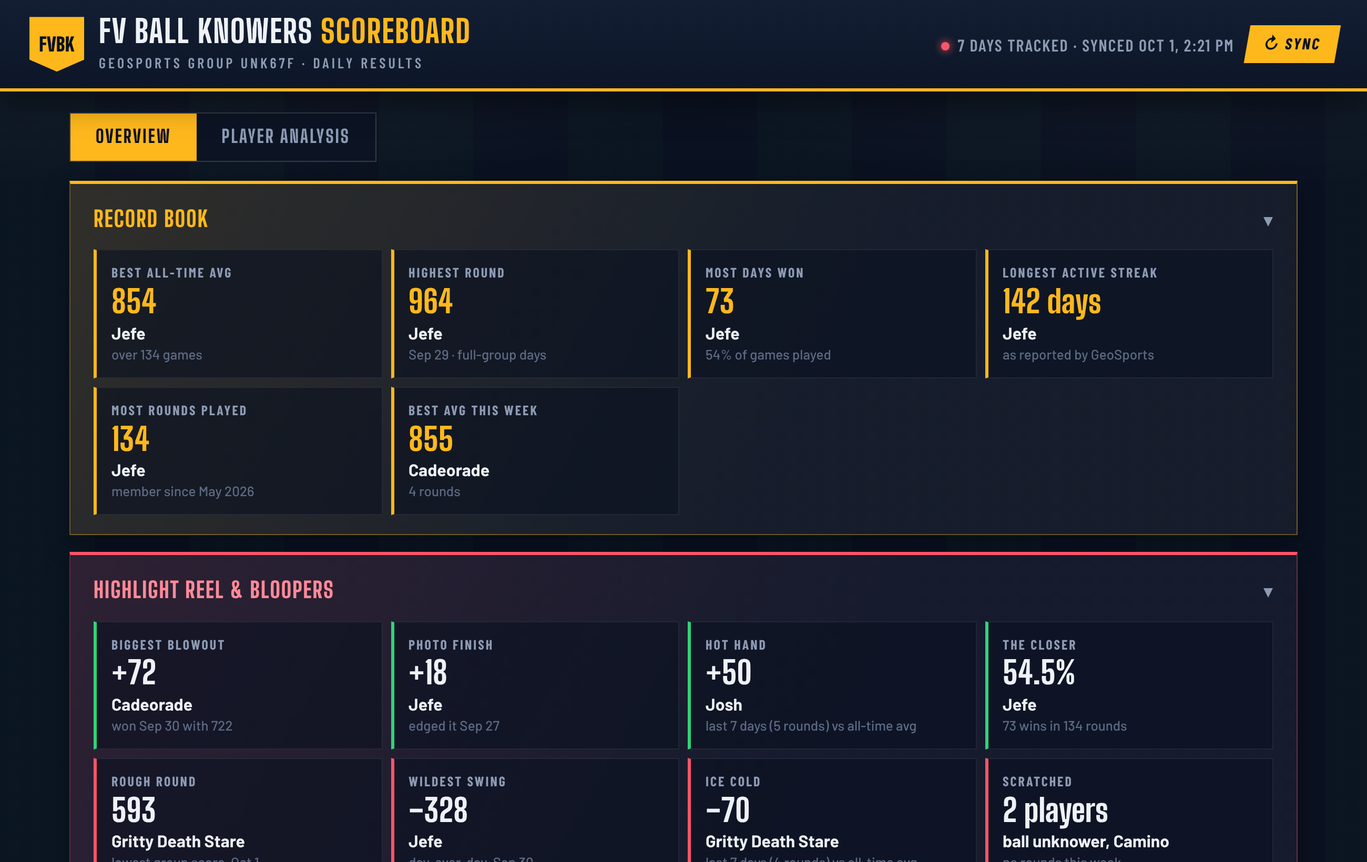
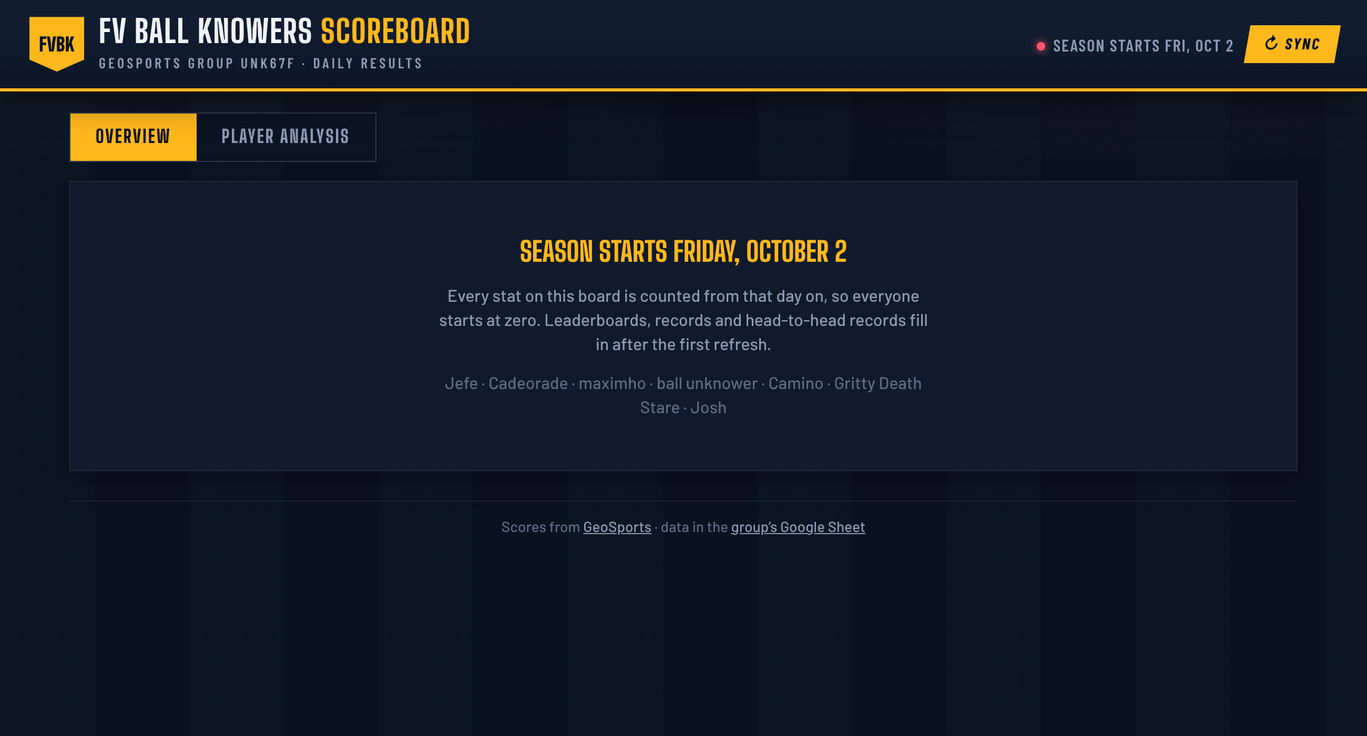
Start the season on Oct 2: compute all stats from tracked days, drop pre-season data

diff --git a/index.html b/index.html
@@ -282,6 +282,7 @@
   function render() {
     document.querySelectorAll('.tab-btn').forEach((b) => { const on = b.dataset.tab === S.tab; b.classList.toggle('active', on); b.setAttribute('aria-selected', on); });
     if (!S.meta || !S.meta.members) return;
+    if (!S.days.length) { renderWaiting(); return; }
     const M = model();
     if (!S.focus || !M.byId[S.focus]) S.focus = M.byId[M.me] ? M.me : M.members[0]?.userId;
     $('title').innerHTML = esc(M.m.group?.name || 'GeoSports') + ' <span class="accent">Scoreboard</span>';
@@ -291,6 +292,14 @@
     Object.values(charts).forEach((c) => c.destroy()); for (const k in charts) delete charts[k];
     $('app').innerHTML = S.tab === 'overview' ? overviewHTML(M) : playerHTML(M);
     if (S.tab === 'overview') overviewCharts(M); else playerCharts(M);
+  }
+
+  function renderWaiting() {
+    const m = S.meta, start = m.start || '2026-10-02';
+    $('meta-line').textContent = 'Season starts ' + fmtDate(start, { weekday: 'short', month: 'short', day: 'numeric' });
+    $('app').innerHTML = `<div class="card empty-state"><h2>Season starts ${esc(fmtDate(start, { weekday: 'long', month: 'long', day: 'numeric' }))}</h2>
+      <p>Every stat on this board is counted from that day on, so everyone starts at zero. Leaderboards, records and head-to-head records fill in after the first refresh.</p>
+      <p style="margin-top:14px" class="dim">${(m.members || []).map((p) => esc(p.name)).join(' · ')}</p></div>`;
   }
 
   // ---------- Overview ----------
@@ -306,14 +315,13 @@
     // bests
     const by = (f) => [...members].filter((p) => f(p) != null).sort((a, b) => f(b) - f(a))[0];
     const bAvg = by((p) => p.alltime?.avg), bWon = by((p) => p.alltime?.won), bStreak = by((p) => p.currentStreak), bGames = by((p) => p.alltime?.games), bWeek = by((p) => p.week?.avg);
-    // Group comparisons only use full-group days, so no one's longer personal history skews them.
     let hi = null; complete.forEach((d) => d.entries.forEach(([id, sc]) => { if (!hi || sc > hi.score) hi = { date: d.date, score: sc, id }; }));
     const bests = [
-      bAvg && ['Best all-time avg', fmt(bAvg.alltime.avg), bAvg.name, `over ${fmt(bAvg.alltime.games)} games`],
-      hi && ['Highest round', fmt(hi.score), byId[hi.id].name, fmtDate(hi.date, { month: 'short', day: 'numeric' }) + ' · full-group days'],
-      bWon && ['Most days won', fmt(bWon.alltime.won), bWon.name, `${fmt(100 * bWon.alltime.won / bWon.alltime.games, 0)}% of games played`],
-      bStreak && ['Longest active streak', fmt(bStreak.currentStreak) + ' days', bStreak.name, 'as reported by GeoSports'],
-      bGames && ['Most rounds played', fmt(bGames.alltime.games), bGames.name, `member since ${fmtDate(bGames.memberSince, { month: 'short', year: 'numeric' })}`],
+      bAvg && ['Best season avg', fmt(bAvg.alltime.avg), bAvg.name, `over ${fmt(bAvg.alltime.games)} rounds`],
+      hi && ['Highest round', fmt(hi.score), byId[hi.id].name, fmtDate(hi.date, { month: 'short', day: 'numeric' })],
+      bWon && ['Most days won', fmt(bWon.alltime.won), bWon.name, `${fmt(100 * bWon.alltime.won / bWon.alltime.games, 0)}% of rounds played`],
+      bStreak && bStreak.currentStreak > 0 && ['Longest active streak', fmt(bStreak.currentStreak) + (bStreak.currentStreak === 1 ? ' day' : ' days'), bStreak.name, 'consecutive days played'],
+      bGames && ['Most rounds played', fmt(bGames.alltime.games), bGames.name, `since ${fmtDate(M.m.start)}`],
       bWeek && ['Best avg this week', fmt(bWeek.week.avg), bWeek.name, `${bWeek.week.games} rounds`],
     ].filter(Boolean);
 
@@ -327,16 +335,16 @@
     members.forEach((p) => { const s = series[p.userId].filter((x) => full.has(x.date)); for (let i = 1; i < s.length; i++) { if (s[i].date !== addDays(s[i - 1].date, 1)) continue; const dlt = s[i].score - s[i - 1].score; if (!swing || Math.abs(dlt) > Math.abs(swing.d)) swing = { id: p.userId, d: dlt, date: s[i].date }; } });
     const formRows = members.map((p) => { const r = M.recent(p.userId, 7); return { p, n: r.length, delta: r.length && p.alltime?.avg != null ? mean(r) - p.alltime.avg : null }; }).filter((x) => x.n >= 3 && x.delta != null);
     const hot = [...formRows].sort((a, b) => b.delta - a.delta)[0], cold = [...formRows].sort((a, b) => a.delta - b.delta)[0];
-    const wr = members.filter((p) => (p.alltime?.games || 0) >= 20).sort((a, b) => b.alltime.won / b.alltime.games - a.alltime.won / a.alltime.games)[0];
+    const wr = members.filter((p) => (p.alltime?.games || 0) >= 5).sort((a, b) => b.alltime.won / b.alltime.games - a.alltime.won / a.alltime.games)[0];
     const mia = members.filter((p) => !(p.week?.games));
     const odd = [
       blow && ['trophy', 'Biggest blowout', '+' + fmt(blow.margin), blow.winners.map(name).join(' & '), `won ${fmtDate(blow.date)} with ${fmt(blow.top)}`],
-      close && ['trophy', 'Photo finish', close.margin === 0 ? 'Tie' : '+' + fmt(close.margin), close.winners.map(name).join(' & '), `edged it ${fmtDate(close.date)}`],
-      hot && hot.delta > 0 && ['trophy', 'Hot hand', sign(hot.delta), esc(hot.p.name), `last 7 days (${hot.n} rounds) vs all-time avg`],
+      close && ['trophy', 'Photo finish', close.margin === 0 ? 'Tie' : '+' + fmt(close.margin), close.winners.map(name).join(' & '), close.margin === 0 ? `tied for the win ${fmtDate(close.date)}` : `edged it ${fmtDate(close.date)}`],
+      hot && hot.delta > 0 && ['trophy', 'Hot hand', sign(hot.delta), esc(hot.p.name), `last 7 days (${hot.n} rounds) vs season avg`],
       wr && ['trophy', 'The closer', fmt(100 * wr.alltime.won / wr.alltime.games, 1) + '%', esc(wr.name), `${wr.alltime.won} wins in ${wr.alltime.games} rounds`],
       low && ['shame', 'Rough round', fmt(low.score), name(low.id), `lowest group score, ${fmtDate(low.date)}`],
       swing && ['shame', 'Wildest swing', sign(swing.d), name(swing.id), `day-over-day, ${fmtDate(swing.date)}`],
-      cold && cold.delta < 0 && ['shame', 'Ice cold', sign(cold.delta), esc(cold.p.name), `last 7 days (${cold.n} rounds) vs all-time avg`],
+      cold && cold.delta < 0 && ['shame', 'Ice cold', sign(cold.delta), esc(cold.p.name), `last 7 days (${cold.n} rounds) vs season avg`],
       mia.length && ['shame', 'Scratched', mia.length + (mia.length === 1 ? ' player' : ' players'), mia.map((p) => esc(p.name)).join(', '), 'no rounds this week'],
     ].filter(Boolean);
 
@@ -355,26 +363,26 @@
       <section class="card collapsible oddities${S.open.odd ? '' : ' collapsed'}" data-col="odd">
         <button type="button" class="card-toggle" aria-expanded="${S.open.odd}">Highlight Reel &amp; Bloopers</button>
         <div class="card-body"><div class="item-grid">${odd.map(([k, l, v, w, s]) => `<div class="item ${k}"><div class="lbl">${l}</div><div class="val">${v}</div><div class="who">${w}</div><div class="s">${esc(s)}</div></div>`).join('')}</div>
-        <p class="sub" style="margin:12px 0 0">Group records only count days with everyone’s scores${firstFull ? ' (since ' + fmtDate(firstFull) + ')' : ''}. Blowouts and photo finishes wait until a day is over. Hot hand and ice cold need 3+ rounds in the last 7 days.</p></div>
+        <p class="sub" style="margin:12px 0 0">Blowouts and photo finishes wait until a day is over. Hot hand and ice cold need 3+ rounds in the last 7 days.</p></div>
       </section>
 
       <h2 class="section-title">Season Totals</h2>
-      <p class="section-sub">Lifetime group totals from GeoSports. Not affected by filters.</p>
+      <p class="section-sub">Totals since the season started on ${esc(fmtDate(M.m.start, { month: 'long', day: 'numeric' }))}. Not affected by filters.</p>
       <div class="metric-grid">
         ${metric('Members', fmt(members.length), `${activeWeek} played this week`)}
-        ${metric('Rounds played', fmt(totalGames), 'all members, all-time')}
+        ${metric('Rounds played', fmt(totalGames), 'all members, this season')}
         ${metric('Group avg', fmt(groupAvg), 'per round, all members')}
         ${metric('Days won', fmt(members.reduce((s, p) => s + (p.alltime?.won || 0), 0)), `${fmt(100 * members.reduce((s, p) => s + (p.alltime?.won || 0), 0) / (totalGames || 1), 1)}% of all rounds`)}
         ${metric("Today's leader", leader ? esc(byId[leader.userId]?.name || '?') : '—', leader ? `${fmt(leader.score)} · ${todayRows.length} of ${members.length} played` : 'no rounds yet today', true, true)}
-        ${metric('Days tracked', fmt(complete.length), firstFull ? `full scores since ${fmtDate(firstFull)}` : 'starts with the first sync')}
+        ${metric('Days tracked', fmt(complete.length), firstFull ? `since ${fmtDate(firstFull)}` : 'starts with the first refresh')}
       </div>
 
       <hr class="section-divider">
 
       <section class="card">
         <div class="filter-label">Leaderboard</div>
-        <p class="sub">Week, month and all-time rank by average score, the same way GeoSports does, so a missed day doesn’t sink you. Click a player for their full breakdown.</p>
-        <div class="chips" style="margin-bottom:12px">${periodChip('today', 'Today')}${periodChip('week', 'This week')}${periodChip('month', 'This month')}${periodChip('alltime', 'All-time')}</div>
+        <p class="sub">Week, month and season rank by average score, the same way GeoSports does, so a missed day doesn’t sink you. Click a player for their full breakdown.</p>
+        <div class="chips" style="margin-bottom:12px">${periodChip('today', 'Today')}${periodChip('week', 'This week')}${periodChip('month', 'This month')}${periodChip('alltime', 'Season')}</div>
         <div class="scroll-table flat">${leaderboardTable(M)}</div>
       </section>
 
@@ -388,20 +396,20 @@
 
       <section class="card">
         <h3>Daily scores</h3>
-        <p class="sub">One line per player. Gaps are days a player skipped.${M.series[M.me]?.length > complete.length ? ' Your own history goes back further than the group’s, so earlier days show only your line.' : ''}</p>
+        <p class="sub">One line per player. Gaps are days a player skipped.</p>
         <div class="chart-wrap" style="height:360px"><canvas id="c-daily" role="img" aria-label="Daily scores by player"></canvas></div>
       </section>
 
       <div class="row2">
         <section class="card">
           <h3>Days won</h3>
-          <p class="sub">All-time daily wins per player.</p>
+          <p class="sub">Daily wins per player this season.</p>
           <div class="chart-wrap" style="height:280px"><canvas id="c-wins" role="img" aria-label="Days won per player"></canvas></div>
         </section>
         <section class="card">
           <h3>Current form</h3>
-          <p class="sub">Last 7 days average minus all-time average. Right of zero is running hot. Rounds played in brackets.</p>
-          <div class="chart-wrap" style="height:280px"><canvas id="c-form" role="img" aria-label="Recent form versus all-time average"></canvas></div>
+          <p class="sub">Last 7 days average minus season average. Right of zero is running hot. Rounds played in brackets.</p>
+          <div class="chart-wrap" style="height:280px"><canvas id="c-form" role="img" aria-label="Recent form versus season average"></canvas></div>
         </section>
       </div>
 
@@ -490,7 +498,7 @@
 
     const form = shown.map((p) => { const r = M.recent(p.userId, 7); return { p, n: r.length, d: r.length && p.alltime?.avg != null ? Math.round(mean(r) - p.alltime.avg) : null }; }).filter((x) => x.d != null).sort((a, b) => b.d - a.d);
     charts.form = new Chart($('c-form'), { type: 'bar', data: { labels: form.map((x) => `${x.p.name} (${x.n})`), datasets: [{ data: form.map((x) => x.d), backgroundColor: form.map((x) => x.d >= 0 ? 'rgba(47,212,122,0.7)' : 'rgba(255,84,104,0.7)'), borderColor: form.map((x) => x.d >= 0 ? '#2fd47a' : '#ff5468'), borderWidth: 1 }] },
-      options: baseOpts({ indexAxis: 'y', plugins: { legend: { display: false }, tooltip: { ...baseOpts().plugins.tooltip, callbacks: { label: (c) => sign(c.raw) + ' pts vs all-time' } } } }) });
+      options: baseOpts({ indexAxis: 'y', plugins: { legend: { display: false }, tooltip: { ...baseOpts().plugins.tooltip, callbacks: { label: (c) => sign(c.raw) + ' pts vs season' } } } }) });
   }
 
   // ---------- Player analysis ----------
@@ -514,13 +522,13 @@
     const isMe = p.userId === M.me, You = isMe ? 'You' : esc(p.name), you = isMe ? 'you' : esc(p.name);
     const notes = [];
     if (pos >= 0) {
-      if (pos === 0 && ranked[1]) notes.push(['good', `#1 all-time`, `Leads ${esc(ranked[1].name)} by ${fmt(at.avg - ranked[1].alltime.avg)} pts on average.`]);
-      else if (pos > 0) notes.push(['info', `#${pos + 1} of ${ranked.length} all-time`, `${fmt(ranked[pos - 1].alltime.avg - at.avg)} pts behind ${esc(ranked[pos - 1].name)} for #${pos}.${ranked[pos + 1] ? ` ${fmt(at.avg - ranked[pos + 1].alltime.avg)} pts clear of ${esc(ranked[pos + 1].name)}.` : ''}`]);
+      if (pos === 0 && ranked[1]) notes.push(['good', `#1 this season`, `Leads ${esc(ranked[1].name)} by ${fmt(at.avg - ranked[1].alltime.avg)} pts on average.`]);
+      else if (pos > 0) notes.push(['info', `#${pos + 1} of ${ranked.length} this season`, `${fmt(ranked[pos - 1].alltime.avg - at.avg)} pts behind ${esc(ranked[pos - 1].name)} for #${pos}.${ranked[pos + 1] ? ` ${fmt(at.avg - ranked[pos + 1].alltime.avg)} pts clear of ${esc(ranked[pos + 1].name)}.` : ''}`]);
     }
-    if (r7.length >= 2) { const d = mean(r7) - at.avg; notes.push([d >= 15 ? 'good' : d <= -15 ? 'bad' : 'info', d >= 15 ? 'Running hot' : d <= -15 ? 'In a slump' : 'Playing to form', `${fmt(mean(r7))} avg over the last 7 days (${r7.length} rounds), ${sign(d)} vs all-time.${r7.length < 3 ? ' Small sample.' : ''}`]); }
+    if (r7.length >= 2) { const d = mean(r7) - at.avg; notes.push([d >= 15 ? 'good' : d <= -15 ? 'bad' : 'info', d >= 15 ? 'Running hot' : d <= -15 ? 'In a slump' : 'Playing to form', `${fmt(mean(r7))} avg over the last 7 days (${r7.length} rounds), ${sign(d)} vs season.${r7.length < 3 ? ' Small sample.' : ''}`]); }
     else notes.push(['bad', 'Barely played lately', `${r7.length} round${r7.length === 1 ? '' : 's'} in the last 7 days.`]);
     if (winRate != null && groupWin != null) notes.push([winRate >= groupWin ? 'good' : 'neutral', 'Closer rate', `Wins ${fmt(winRate, 1)}% of rounds played. Across the group, ${fmt(groupWin, 1)}% of rounds are wins.`]);
-    if (s.length >= 5) notes.push(['info', 'Consistency', `Tracked rounds swing about ±${fmt(sd(s))} pts. Range ${fmt(worst)} to ${fmt(best)}.`]);
+    if (s.length >= 5) notes.push(['info', 'Consistency', `Rounds swing about ±${fmt(sd(s))} pts. Range ${fmt(worst)} to ${fmt(best)}.`]);
     if (M.series[p.userId].length >= 14) {
       const wd = {}; M.series[p.userId].forEach((x) => { const k = toDate(x.date).getDay(); (wd[k] = wd[k] || []).push(x.score); });
       const avgs = Object.entries(wd).filter(([, v]) => v.length >= 2).map(([k, v]) => [k, mean(v)]).sort((a, b) => b[1] - a[1]);
@@ -555,16 +563,16 @@
       </section>
 
       <h2 class="section-title">${esc(p.name)} · ${p.role === 'owner' ? 'Group owner' : 'Member'}</h2>
-      <p class="section-sub">Joined ${p.memberSince ? fmtDate(p.memberSince, { month: 'long', day: 'numeric', year: 'numeric' }) : '—'}. All-time stats come from GeoSports; trends use ${fmt(s.length)} tracked rounds.</p>
+      <p class="section-sub">Joined ${p.memberSince ? fmtDate(p.memberSince, { month: 'long', day: 'numeric', year: 'numeric' }) : '—'}. Stats cover ${fmt(s.length)} rounds since the season started on ${esc(fmtDate(M.m.start))}.</p>
       <div class="metric-grid four">
-        ${metric('All-time avg', fmt(at.avg), pos >= 0 ? `#${pos + 1} in the group` : 'not ranked')}
-        ${metric('Rounds played', fmt(at.games), `${fmt(p.perfectGames || 0)} perfect`)}
+        ${metric('Season avg', fmt(at.avg), pos >= 0 ? `#${pos + 1} in the group` : 'not ranked')}
+        ${metric('Rounds played', fmt(at.games), `since ${fmtDate(M.m.start)}`)}
         ${metric('Days won', fmt(at.won), winRate != null ? `${fmt(winRate, 1)}% win rate` : '—')}
         ${metric('Current streak', fmt(p.currentStreak || 0) + ' d', p.currentStreak ? 'consecutive days' : 'no active streak')}
-        ${metric('This week', fmt(wk.avg), wk.games ? `<span class="${dWeek >= 0 ? 'up' : 'down'}">${sign(dWeek)}</span> vs all-time · ${wk.games} rounds` : 'no rounds yet')}
+        ${metric('This week', fmt(wk.avg), wk.games ? `<span class="${dWeek >= 0 ? 'up' : 'down'}">${sign(dWeek)}</span> vs season · ${wk.games} rounds` : 'no rounds yet')}
         ${metric('Last 30 days', fmt(mean(r30)), `${r30.length} tracked rounds`)}
-        ${metric('Best tracked', fmt(best), best != null ? fmtDate(M.series[p.userId].find((x) => x.score === best).date) : '—', true)}
-        ${metric('Worst tracked', fmt(worst), worst != null ? fmtDate(M.series[p.userId].find((x) => x.score === worst).date) : '—')}
+        ${metric('Best round', fmt(best), best != null ? fmtDate(M.series[p.userId].find((x) => x.score === best).date) : '—', true)}
+        ${metric('Worst round', fmt(worst), worst != null ? fmtDate(M.series[p.userId].find((x) => x.score === worst).date) : '—')}
       </div>
 
       <section class="card">
@@ -575,15 +583,15 @@
 
       <section class="card">
         <h3>Score trend</h3>
-        <p class="sub">Each tracked round, a 5-round rolling average, and the group’s daily average on full-group days.</p>
+        <p class="sub">Each tracked round, a 5-round rolling average, and the group’s daily average.</p>
         <div class="chart-wrap" style="height:340px"><canvas id="c-trend" role="img" aria-label="Score trend for ${esc(p.name)}"></canvas></div>
       </section>
 
       <div class="row2">
         <section class="card">
           <h3>Head-to-head</h3>
-          <p class="sub">Record on days both played (W-L-T), average margin, and all-time avg gap.</p>
-          <div class="scroll-table flat"><table><thead><tr><th>Opponent</th><th>Record</th><th class="num">Days</th><th class="num">Margin</th><th class="num">${isMe ? 'You' : esc(p.name)}</th><th class="num">Opp</th><th class="num">All-time</th></tr></thead><tbody>${h2hRows}</tbody></table></div>
+          <p class="sub">Record on days both played (W-L-T), average margin, and season avg gap.</p>
+          <div class="scroll-table flat"><table><thead><tr><th>Opponent</th><th>Record</th><th class="num">Days</th><th class="num">Margin</th><th class="num">${isMe ? 'You' : esc(p.name)}</th><th class="num">Opp</th><th class="num">Season</th></tr></thead><tbody>${h2hRows}</tbody></table></div>
         </section>
         <section class="card">
           <h3>Score distribution</h3>
@@ -659,26 +667,45 @@
   }
   const num = (v) => { if (v === '' || v == null) return null; const n = Number(String(v).replace(/,/g, '')); return Number.isFinite(n) ? n : null; };
 
+  // Every stat is calculated from the Daily Scores tab, starting on the tracking start date.
+  function dayOffset(s, n) { const [y, m, d] = s.split('-').map(Number); const t = new Date(y, m - 1, d + n, 12); return t.getFullYear() + '-' + String(t.getMonth() + 1).padStart(2, '0') + '-' + String(t.getDate()).padStart(2, '0'); }
+  function computeStats(roster, days, asOf) {
+    const winners = {};
+    days.forEach((d) => { const v = Object.values(d.scores); if (!v.length) return; const top = Math.max(...v); winners[d.date] = Object.keys(d.scores).filter((id) => d.scores[id] === top); });
+    const [y, m, dd] = asOf.split('-').map(Number);
+    const weekStart = dayOffset(asOf, -((new Date(y, m - 1, dd, 12).getDay() + 6) % 7)); // weeks run Monday to Sunday
+    const monthStart = asOf.slice(0, 8) + '01';
+    const stat = (uid, from) => {
+      const s = days.filter((d) => d.date >= from && d.date <= asOf && d.scores[uid] != null);
+      const games = s.length;
+      return { avg: games ? s.reduce((t, d) => t + d.scores[uid], 0) / games : null, games, won: s.filter((d) => (winners[d.date] || []).includes(uid)).length };
+    };
+    const played = (uid, date) => days.some((d) => d.date === date && d.scores[uid] != null);
+    return roster.map((r) => {
+      let streak = 0, cur = played(r.userId, asOf) ? asOf : dayOffset(asOf, -1);
+      while (played(r.userId, cur)) { streak++; cur = dayOffset(cur, -1); }
+      const today = days.find((d) => d.date === asOf);
+      return { ...r, currentStreak: streak, week: stat(r.userId, weekStart), month: stat(r.userId, monthStart), alltime: stat(r.userId, '0000-00-00'), todayScore: today?.scores[r.userId] ?? null };
+    });
+  }
+
   async function loadSheet() {
     const [players, info, daily] = await Promise.all([fetchTab('Players'), fetchTab('Info'), fetchTab('Daily Scores')]);
     const I = Object.fromEntries(info.map((r) => [r.Field, r.Value]));
-    const members = players.filter((p) => p['User ID']).map((p) => ({
-      userId: p['User ID'], name: p.Player, role: p.Role, memberSince: p['Member since'],
-      currentStreak: num(p['Current streak']) ?? 0, perfectGames: num(p['Perfect games']) ?? 0,
-      week: { avg: num(p['Week avg']), games: num(p['Week rounds']) ?? 0, won: num(p['Week wins']) ?? 0 },
-      month: { avg: num(p['Month avg']), games: num(p['Month rounds']) ?? 0, won: num(p['Month wins']) ?? 0 },
-      alltime: { avg: num(p['All-time avg']), games: num(p['All-time rounds']) ?? 0, won: num(p['All-time wins']) ?? 0 },
-      todayScore: num(p['Today score'])
-    }));
-    const idByName = Object.fromEntries(members.map((m) => [m.name, m.userId]));
-    const days = daily.filter((r) => /^\d{4}-\d{2}-\d{2}$/.test(r.Date)).map((r) => {
+    const start = I['Tracking starts'] || '2026-10-02';
+    const roster = players.filter((p) => p['User ID']).map((p) => ({ userId: p['User ID'], name: p.Player, role: p.Role, memberSince: p['Member since'] }));
+    const idByName = Object.fromEntries(roster.map((m) => [m.name, m.userId]));
+    const days = daily.filter((r) => /^\d{4}-\d{2}-\d{2}$/.test(r.Date) && r.Date >= start).map((r) => {
       const scores = {};
       Object.entries(r).forEach(([k, v]) => { const id = idByName[k]; const n = num(v); if (id && n != null) scores[id] = n; });
-      return { date: r.Date, complete: String(r['Full group day']).toLowerCase() === 'yes', scores };
-    });
+      return { date: r.Date, complete: true, scores };
+    }).filter((d) => Object.keys(d.scores).length);
+    const lastDay = days.length ? days.map((d) => d.date).sort().pop() : null;
+    const asOf = [I['GeoSports day'], lastDay].filter(Boolean).sort().pop() || start;
+    const members = computeStats(roster, days, asOf);
     S.meta = {
-      group: { name: I['Group'] || 'GeoSports', code: I['Group code'] || '' },
-      date: I['GeoSports day'], fetchedAt: I['Last refreshed (UTC)'], currentUserId: I['Dashboard owner user ID'],
+      group: { name: I['Group'] || 'GeoSports', code: I['Group code'] || '' }, start,
+      date: asOf, fetchedAt: I['Last refreshed (UTC)'], currentUserId: I['Dashboard owner user ID'],
       members, today: members.filter((m) => m.todayScore != null).map((m) => ({ userId: m.userId, score: m.todayScore }))
     };
     S.days = days;

diff --git a/README.md b/README.md
@@ -1,6 +1,6 @@
 # FV Ball Knowers Scoreboard
 
-A live scoreboard for my friends' daily [GeoSports](https://geosports.app) games. GeoSports only shows a week of daily scores, so I keep every result in a Google Sheet. This page turns the sheet into leaderboards, records, form charts and head-to-head scouting reports. Update the sheet, reload the page, and the numbers change.
+A live scoreboard for my friends' daily [GeoSports](https://geosports.app) games. Our season starts on October 2, 2026, and every result from then on goes into a Google Sheet. This page turns the sheet into leaderboards, records, form charts and head-to-head scouting reports, all calculated from the season's scores. Update the sheet, reload the page, and the numbers change.
 
 **▶ Live: [maximhoeft94.github.io/geosports-dashboard](https://maximhoeft94.github.io/geosports-dashboard/)**
 
@@ -9,20 +9,18 @@ A live scoreboard for my friends' daily [GeoSports](https://geosports.app) games
 ## What it does
 
 **Overview tab**
-- Record Book: best all-time average, highest round, most days won, longest streak, most rounds played
+- Record Book: best season average, highest round, most days won, longest streak, most rounds played
 - Highlight Reel & Bloopers: biggest blowout, photo finish, hot hand, ice cold, wildest swing, players who skipped the week
 - Season totals for the whole group
-- Leaderboard for today, this week, this month and all-time, ranked by average like GeoSports does, with a 7-day trend line per player
+- Leaderboard for today, this week, this month and the season, ranked by average like GeoSports does, with a 7-day trend line per player
 - Daily scores chart with player and date-range filters, days-won and current-form charts, and a full daily results table
 
 **Player Analysis tab**
-- Stat cards for any player: all-time average, rounds, days won, win rate, streak, this week vs. all-time, best and worst rounds
+- Stat cards for any player: season average, rounds, days won, win rate, streak, this week vs. the season, best and worst rounds
 - Scouting report: rank gaps, recent form, win rate vs. the group, consistency, best day of the week, nemesis and favorite matchup
 - Score trend with a 5-round rolling average and the group's daily average
 - Head-to-head record against every other player on days both played
 - Score distribution
-
-![Player analysis](screenshots/player.png)
 
 ## How it works
 
@@ -30,10 +28,11 @@ A live scoreboard for my friends' daily [GeoSports](https://geosports.app) games
 GeoSports group ──(refresh)──▶ Google Sheet ──(CSV)──▶ index.html (Chart.js)
 ```
 
-- **Data:** a view-only Google Sheet with four tabs. `Daily Scores` has one row per day and one column per player. `Players` has each member's standings for today, this week, this month and all-time. `Info` holds the group name and when the data was last refreshed. `Data Sources` records where each table came from.
+- **Data:** a view-only Google Sheet with four tabs. `Daily Scores` has one row per day and one column per player. `Players` is the group roster. `Info` holds the group name, the season start date and when the data was last refreshed. `Data Sources` records where each table came from.
+- **Stats:** every average, win, streak and record is calculated in the browser from `Daily Scores`, counting only days from the season start on. Weeks run Monday to Sunday, and a tie for the day's top score counts as a win for each tied player.
 - **Refreshing:** GeoSports shows every member's daily scores for the last 7 days. Each refresh adds new days to the sheet and updates the last 7, so late plays get picked up and older days are never overwritten. As long as a refresh happens at least once a week, no day is lost.
 - **Page:** a single static `index.html` on GitHub Pages. It fetches each tab's CSV export straight from the browser and computes everything client-side, so there's no backend.
-- **Accuracy rules:** group records only use days with everyone's scores. Blowouts and photo finishes wait until a day is over. Hot hand and ice cold need at least 3 rounds in the last week.
+- **Accuracy rules:** blowouts and photo finishes wait until a day is over. Hot hand and ice cold need at least 3 rounds in the last week.
 
 **Stack:** JavaScript · Chart.js · HTML/CSS · Google Sheets · GitHub Pages
 
@@ -46,9 +45,7 @@ python3 -m http.server 8000
 # open http://localhost:8000
 ```
 
-To point it at a different sheet, change `SHEET_ID` in `index.html`. The sheet needs the `Daily Scores`, `Players` and `Info` tabs described above and must be shared as "Anyone with the link can view".
-
-![Mobile](screenshots/mobile.png)
+To point it at a different sheet, change `SHEET_ID` in `index.html`. The sheet needs the `Daily Scores`, `Players` and `Info` tabs described above (`Info` needs a `Tracking starts` row) and must be shared as "Anyone with the link can view".
 
 ---
 Built by Maxim Hoeft.
